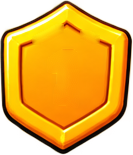
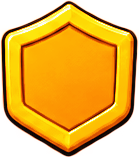
mole v964: 업적 금색 방패 번짐 수정(은색 빈 방패 모양에 금색 입힘)
Claude-Session: https://claude.ai/code/session_01GirAya7RX91uMc859bmUVe

Changed region(s): [[0.0, 0.0, 0.9925, 1.0]]

diff --git a/mole/index.html b/mole/index.html
@@ -873,7 +873,7 @@
         <!-- 배포 버전 표식(스크린샷으로 어느 버전인지 확인용) — 화면 좌하단에 두면 다른 UI에
              가려 잘 안 보인다는 사용자 지적으로, 하트 아이콘(다이얼패드 1번 칸) 바로 위로 이동. -->
         <div class="h2-preload" aria-hidden="true"></div><!-- v951: 게임 중 버튼 색(초록·노랑·빨강·분홍·회색) 미리 읽어 두기 — 처음 바뀔 때 깜빡임 방지 -->
-        <div id="build-tag" aria-hidden="true">v963</div>
+        <div id="build-tag" aria-hidden="true">v964</div>
         <!-- 피버타임(터치캐치 보너스타임) 전광판 — 버튼보드 자리를 통째로 덮는 오버레이,
              평소엔 hidden, 피버 중에만 콤보/잔여시간 표시(사용자 지정: "전광판처럼"). -->
         <div id="fever-scoreboard" class="fever-scoreboard" hidden>
@@ -1127,7 +1127,7 @@ window.FGH.rollOut = function (el, done) {
       } else {
         // ?v= 로 매 배포마다 URL을 바꿔서 GitHub Pages의 sw.js 캐시(max-age=600)를 무조건 우회 —
         // 안 그러면 배포 직후에도 최대 10분간 옛 서비스워커가 안 갈리는 경우가 있었음(사용자 보고).
-        navigator.serviceWorker.register('sw.js?v=963').catch(function () {});
+        navigator.serviceWorker.register('sw.js?v=964').catch(function () {});
       }
     });
   }

diff --git a/mole/sw.js b/mole/sw.js
@@ -3,7 +3,7 @@
 // 폴백 전용으로만 갱신한다. (예전엔 stale-while-revalidate라 배포해도 "다음 실행"에야
 // 반영돼 사용자 체감 대기가 길었음 — 온라인=항상 최신, 오프라인=마지막 캐시로 변경.)
 // SHELL 목록 자체가 바뀔 때만 CACHE 를 올린다.
-const CACHE = 'mole-game-v963';
+const CACHE = 'mole-game-v964';
 
 // 화면별 BGM(audio/bgm-*.mp3)은 v275 부터 SHELL 에 포함 — 기본 켜짐(v272)이라 항상 필요하고,
 // 캐시가 안 돼 있으면 오프라인/느린망에서 재생 실패했음.
